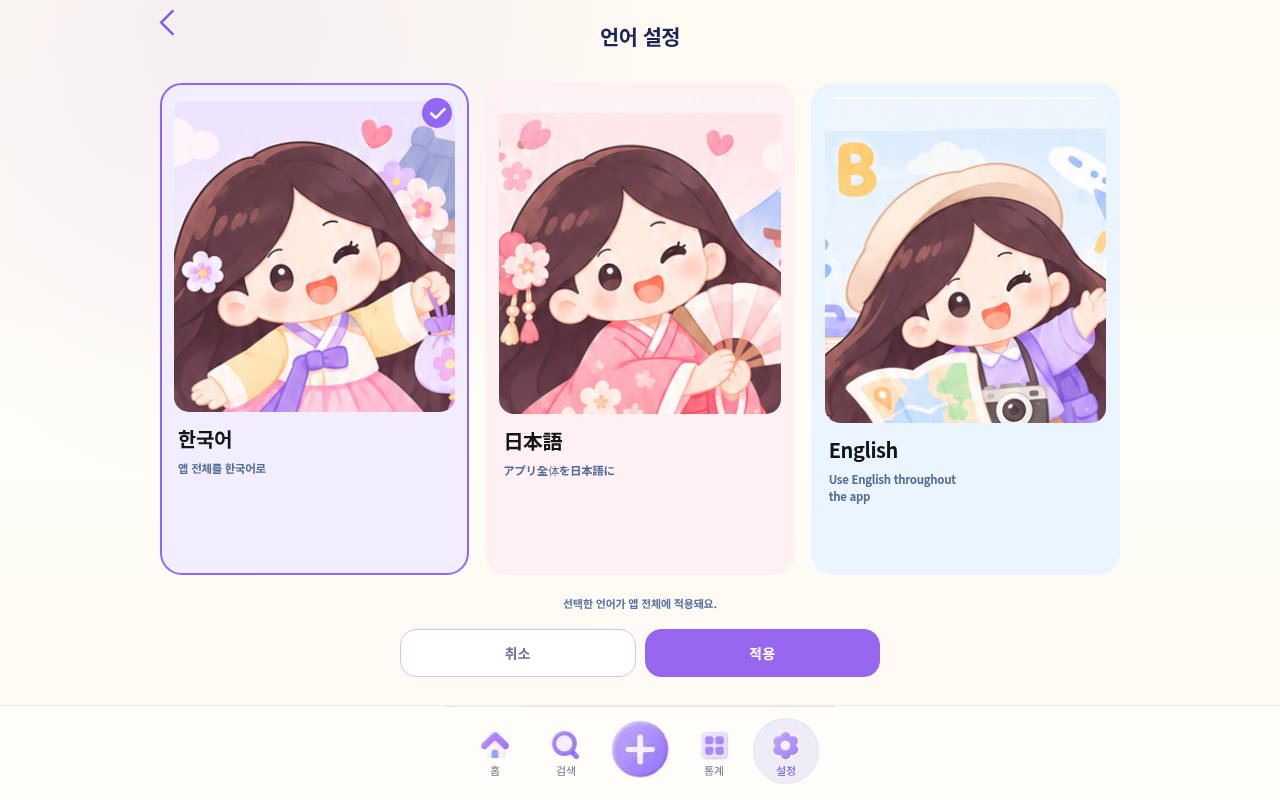
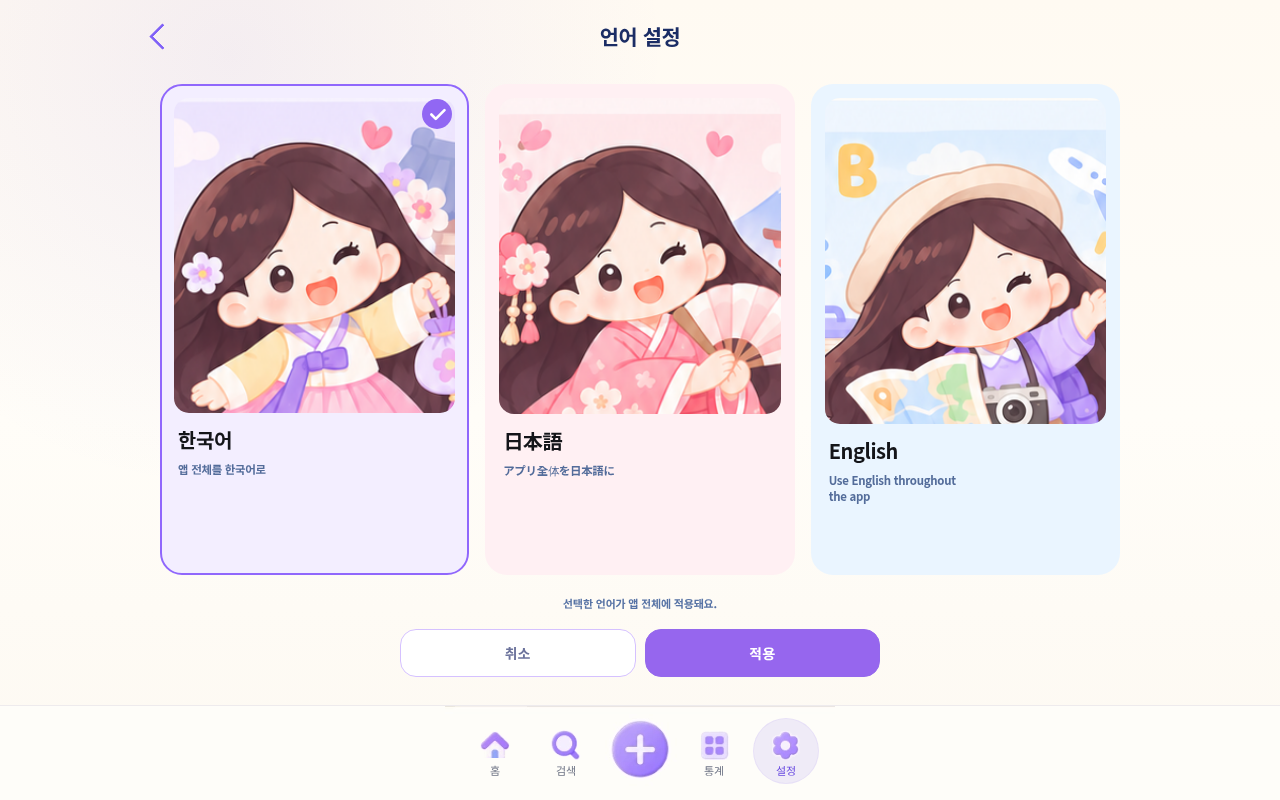
Wide settings: theme with a large preview, one shared header and back arrow across settings screens
Claude-Session: https://claude.ai/code/session_01GjqJbS89D4DFQDLTKoRXvw

diff --git a/drawary-v2/src/wide/wideSettings.css b/drawary-v2/src/wide/wideSettings.css
@@ -9,7 +9,6 @@
 .wide-sd .sec40-screen, .wide-sd .dmh44-screen, .wide-sd .ts39-screen, .wide-sd .lang54-screen, .wide-sd .help55-screen, .wide-sd .info58-screen, .wide-sd .fb59-screen {
   position: relative; width: 100%; max-width: 1000px; height: auto; min-height: 0; margin: 0 auto; overflow: visible; background: transparent;
 }
-.wide-sd .help55-screen, .wide-sd .info58-screen, .wide-sd .fb59-screen { max-width: 920px; }
 
 /* ---- security (#40) and data management (#44): hero across, the option rows as three cards ---- */
 .wide-sd .sec40-panel, .wide-sd .dmh44-panel {
@@ -75,7 +74,7 @@
 .wide-sd .sec40-screen, .wide-sd .dmh44-screen, .wide-sd .ts39-screen, .wide-sd .lang54-screen, .wide-sd .help55-screen, .wide-sd .info58-screen { display: flex; flex-direction: column; flex: 1 1 auto; }
 .wide-sd .sec40-panel, .wide-sd .dmh44-panel { flex: 1 1 auto; margin-bottom: 24px; }
 .wide-sd .ts39-panel { flex: 0 0 auto; margin-bottom: 24px; }
-.wide-sd .ts39-screen { justify-content: center; }
+.wide-sd .ts39-panel { margin-top: auto; margin-bottom: auto; }
 .wide-sd .sec40-panel { grid-template-rows: auto auto minmax(150px, 1fr) auto; }
 .wide-sd .dmh44-panel { grid-template-rows: auto auto minmax(150px, 1fr); }
 /* the option cards become tall tiles: icon above, text below, the switch or arrow underneath */
@@ -95,4 +94,148 @@
 .wide-sd .lang54-form { flex: 1 1 auto; grid-template-rows: minmax(0, 1fr) auto auto; align-content: stretch; max-height: 640px; }
 .wide-sd .lang54-card .lang54-art { flex: 1 1 auto; height: auto; min-height: 150px; }
 /* help and info: short pages are centred vertically */
-.wide-sd .help55-screen, .wide-sd .info58-screen { justify-content: center; }
+.wide-sd .help55-content { margin-top: auto; margin-bottom: auto; }
+.wide-sd .info58-brand { margin-top: auto; }
+.wide-sd .info58-credit { margin-bottom: auto; }
+
+/* ---- one header and one back arrow for every settings screen (same as the app's shared ScreenHeader: 72 px bar, centred 21 px title, 44 px chevron button) ---- */
+.wide-sd .sec40-header,
+.wide-sd .dmh44-header,
+.wide-sd .ts39-header,
+.wide-sd .ld41-header,
+.wide-sd .ps42-header,
+.wide-sd .bkt45-header,
+.wide-sd .rr50-header,
+.wide-sd .help55-appbar,
+.wide-sd .info58-appbar,
+.wide-sd .guide57-appbar,
+.wide-sd .faq56-appbar,
+.wide-sd .fb59-appbar,
+.pane-magnifier-inner .sec40-header,
+.pane-magnifier-inner .dmh44-header,
+.pane-magnifier-inner .ts39-header,
+.pane-magnifier-inner .ld41-header,
+.pane-magnifier-inner .ps42-header,
+.pane-magnifier-inner .bkt45-header,
+.pane-magnifier-inner .rr50-header,
+.pane-magnifier-inner .help55-appbar,
+.pane-magnifier-inner .info58-appbar,
+.pane-magnifier-inner .guide57-appbar,
+.pane-magnifier-inner .faq56-appbar,
+.pane-magnifier-inner .fb59-appbar { position: relative; height: 72px; margin: 0; padding: 0; display: grid; grid-template-columns: 44px 1fr 44px; align-items: center; justify-content: normal; flex: none; }
+.wide-sd .sec40-header h1,
+.wide-sd .dmh44-header h1,
+.wide-sd .ts39-title,
+.wide-sd .ld41-header h1,
+.wide-sd .ps42-header h1,
+.wide-sd .bkt45-header h1,
+.wide-sd .rr50-title,
+.wide-sd .help55-appbar-title,
+.wide-sd .info58-appbar-title,
+.wide-sd .guide57-appbar-title,
+.wide-sd .faq56-appbar h1,
+.wide-sd .fb59-appbar h1,
+.pane-magnifier-inner .sec40-header h1,
+.pane-magnifier-inner .dmh44-header h1,
+.pane-magnifier-inner .ts39-title,
+.pane-magnifier-inner .ld41-header h1,
+.pane-magnifier-inner .ps42-header h1,
+.pane-magnifier-inner .bkt45-header h1,
+.pane-magnifier-inner .rr50-title,
+.pane-magnifier-inner .help55-appbar-title,
+.pane-magnifier-inner .info58-appbar-title,
+.pane-magnifier-inner .guide57-appbar-title,
+.pane-magnifier-inner .faq56-appbar h1,
+.pane-magnifier-inner .fb59-appbar h1 { grid-column: 2; margin: 0; text-align: center; font-size: 21px; line-height: 1.25; font-weight: 850; letter-spacing: -.5px; color: #1b2d65; white-space: nowrap; overflow: hidden; text-overflow: ellipsis; }
+.wide-sd .sec40-back,
+.wide-sd .dmh44-back,
+.wide-sd .ts39-back,
+.wide-sd .ld41-back,
+.wide-sd .ps42-back,
+.wide-sd .bkt45-back,
+.wide-sd .rr50-back,
+.wide-sd .help55-back,
+.wide-sd .info58-back,
+.wide-sd .guide57-back,
+.wide-sd .faq56-back,
+.wide-sd .fb59-back,
+.pane-magnifier-inner .sec40-back,
+.pane-magnifier-inner .dmh44-back,
+.pane-magnifier-inner .ts39-back,
+.pane-magnifier-inner .ld41-back,
+.pane-magnifier-inner .ps42-back,
+.pane-magnifier-inner .bkt45-back,
+.pane-magnifier-inner .rr50-back,
+.pane-magnifier-inner .help55-back,
+.pane-magnifier-inner .info58-back,
+.pane-magnifier-inner .guide57-back,
+.pane-magnifier-inner .faq56-back,
+.pane-magnifier-inner .fb59-back { position: static; grid-column: 1; grid-row: 1; left: auto; top: auto; width: 44px; height: 44px; margin: 0; padding: 0; border: 0; background: transparent; transform: none; display: flex; align-items: center; justify-content: center; cursor: pointer; }
+.wide-sd .sec40-back::before,
+.wide-sd .dmh44-back::before,
+.wide-sd .ts39-back::before,
+.wide-sd .ld41-back::before,
+.wide-sd .ps42-back::before,
+.wide-sd .bkt45-back::before,
+.wide-sd .rr50-back::before,
+.wide-sd .help55-back::before,
+.wide-sd .info58-back::before,
+.wide-sd .guide57-back::before,
+.wide-sd .faq56-back::before,
+.wide-sd .fb59-back::before,
+.pane-magnifier-inner .sec40-back::before,
+.pane-magnifier-inner .dmh44-back::before,
+.pane-magnifier-inner .ts39-back::before,
+.pane-magnifier-inner .ld41-back::before,
+.pane-magnifier-inner .ps42-back::before,
+.pane-magnifier-inner .bkt45-back::before,
+.pane-magnifier-inner .rr50-back::before,
+.pane-magnifier-inner .help55-back::before,
+.pane-magnifier-inner .info58-back::before,
+.pane-magnifier-inner .guide57-back::before,
+.pane-magnifier-inner .faq56-back::before,
+.pane-magnifier-inner .fb59-back::before { content: ''; display: block; position: static; width: 11px; height: 11px; margin: 0; border: 0; border-left: 3px solid var(--tc-7a5cf0,#7a5cf0); border-bottom: 3px solid var(--tc-7a5cf0,#7a5cf0); border-radius: 1px; transform: rotate(45deg); }
+.wide-sd .sec40-back::after,
+.wide-sd .dmh44-back::after,
+.wide-sd .ts39-back::after,
+.wide-sd .ld41-back::after,
+.wide-sd .ps42-back::after,
+.wide-sd .bkt45-back::after,
+.wide-sd .rr50-back::after,
+.wide-sd .help55-back::after,
+.wide-sd .info58-back::after,
+.wide-sd .guide57-back::after,
+.wide-sd .faq56-back::after,
+.wide-sd .fb59-back::after,
+.pane-magnifier-inner .sec40-back::after,
+.pane-magnifier-inner .dmh44-back::after,
+.pane-magnifier-inner .ts39-back::after,
+.pane-magnifier-inner .ld41-back::after,
+.pane-magnifier-inner .ps42-back::after,
+.pane-magnifier-inner .bkt45-back::after,
+.pane-magnifier-inner .rr50-back::after,
+.pane-magnifier-inner .help55-back::after,
+.pane-magnifier-inner .info58-back::after,
+.pane-magnifier-inner .guide57-back::after,
+.pane-magnifier-inner .faq56-back::after,
+.pane-magnifier-inner .fb59-back::after { content: none; display: none; }
+
+/* the shared ScreenHeader screens (language, restore, reset, ...) take the same values, over their per-screen restore rules */
+.wide-sd .uf-header--center, .pane-magnifier-inner .uf-header--center { position: relative !important; top: auto !important; height: 72px !important; margin: 0 !important; padding: 0 !important; }
+.wide-sd .uf-header--center .uf-title, .pane-magnifier-inner .uf-header--center .uf-title { font-size: 21px !important; font-weight: 850 !important; letter-spacing: -.5px !important; color: #1b2d65 !important; line-height: 1.25 !important; }
+.wide-sd .uf-header--center .uf-back, .pane-magnifier-inner .uf-header--center .uf-back { position: static !important; left: auto !important; top: auto !important; width: 44px !important; height: 44px !important; margin: 0 !important; padding: 0 !important; transform: none !important; }
+.wide-sd .lang54-title { color: #1b2d65; font-weight: 850; }
+
+/* ---- theme (#39): one large preview of the chosen theme above the five choices ---- */
+.ts39-big { display: none; }
+.wide-sd .ts39-big { display: block; position: relative; width: 100%; max-width: 560px; height: 250px; margin: 4px auto 22px; border-radius: 26px; border: 1px solid var(--preview-border); background: var(--preview-background); box-shadow: 0 6px 20px rgba(65, 50, 90, .07); overflow: hidden; }
+.wide-sd .ts39-big[data-theme="lavender"] { --preview-background: #f5efff; --preview-border: #e6ddfb; --theme-primary: #8051ff; }
+.wide-sd .ts39-big[data-theme="coral"] { --preview-background: #fff1f1; --preview-border: #ffe2e1; --theme-primary: #f4898a; }
+.wide-sd .ts39-big[data-theme="sage"] { --preview-background: #f2faf1; --preview-border: #e6f1e5; --theme-primary: #80b58c; }
+.wide-sd .ts39-big[data-theme="mustard"] { --preview-background: #fff9ef; --preview-border: #f8edd7; --theme-primary: #e9b440; }
+.wide-sd .ts39-big[data-theme="sky"] { --preview-background: #eff7ff; --preview-border: #e0ecfa; --theme-primary: #79b8ea; }
+.wide-sd .ts39-big-flower { position: absolute; left: 28px; top: 20px; height: 104px; width: auto; max-width: 130px; object-fit: contain; }
+.wide-sd .ts39-big-bar { position: absolute; right: 34px; top: 52px; width: 120px; height: 28px; border-radius: 99px; background: var(--theme-primary); opacity: .69; }
+.wide-sd .ts39-big-field { position: absolute; left: 28px; right: 28px; bottom: 74px; height: 56px; border-radius: 18px; background: #fff; box-shadow: 0 2px 9px rgba(100, 100, 100, .05); }
+.wide-sd .ts39-big-field--short { bottom: 22px; right: 42%; height: 40px; }
+.wide-sd .ts39-big-name { position: absolute; right: 30px; bottom: 26px; font-size: 22px; font-weight: 900; letter-spacing: -.4px; color: var(--theme-primary); }

diff --git a/drawary-v2/src/screens/ThemeSettingsScreen.tsx b/drawary-v2/src/screens/ThemeSettingsScreen.tsx
@@ -9,6 +9,8 @@ export interface ThemeSettingsScreenProps {
   initialTheme?: ThemeId;
   onBack?: () => void;
   onThemeChange?: (theme: ThemeId) => void;
+  /** Wide windows: the chosen theme is also shown as one large preview above the five choices. */
+  bigPreview?: boolean;
 }
 
 const THEMES: { id: ThemeId; label: string; flower: string; alt: string }[] = [
@@ -31,7 +33,7 @@ const THEMES: { id: ThemeId; label: string; flower: string; alt: string }[] = [
  * the archive into a new `assets/theme/` directory (verified by
  * opening each one directly, not guessed from filenames).
  */
-export function ThemeSettingsScreen({ initialTheme = 'lavender', onBack, onThemeChange }: ThemeSettingsScreenProps) {
+export function ThemeSettingsScreen({ initialTheme = 'lavender', onBack, onThemeChange, bigPreview = false }: ThemeSettingsScreenProps) {
   const [theme, setTheme] = useState<ThemeId>(initialTheme);
 
   const select = (id: ThemeId) => {
@@ -47,6 +49,15 @@ export function ThemeSettingsScreen({ initialTheme = 'lavender', onBack, onTheme
       </header>
       <section className="ts39-panel" aria-label={t('테마 설정')}>
         <h2 className="ts39-section-heading">{t('테마 스타일')}</h2>
+        {bigPreview && (
+          <div className="ts39-big" data-theme={theme} aria-hidden="true">
+            <img className="ts39-big-flower" src={`/assets/theme/${THEMES.find((x) => x.id === theme)!.flower}`} alt="" />
+            <span className="ts39-big-bar" />
+            <span className="ts39-big-field" />
+            <span className="ts39-big-field ts39-big-field--short" />
+            <span className="ts39-big-name">{t(THEMES.find((x) => x.id === theme)!.label)}</span>
+          </div>
+        )}
         <div className="ts39-themes" aria-label={t('테마 선택')}>
           {THEMES.map((th) => (
             <button

diff --git a/drawary-v2/src/App.tsx b/drawary-v2/src/App.tsx
@@ -1170,7 +1170,7 @@ export default function App() {
       // ThemeSettingsScreen.tsx's own header comment. Back returns to #38.
       return <main className="drawary-app-shell" data-route="theme-settings">
         <FixedCanvas height={844}>
-          <ThemeSettingsScreen initialTheme={theme} onBack={returnToTab} onThemeChange={(id) => { void actions.setSetting(THEME_KEY, id).catch(alertError); }} />
+          <ThemeSettingsScreen bigPreview={layout === 'wide'} initialTheme={theme} onBack={returnToTab} onThemeChange={(id) => { void actions.setSetting(THEME_KEY, id).catch(alertError); }} />
         </FixedCanvas>
       </main>;
     }

diff --git a/drawary-v2/docs/V2_12_18_PHONE_FEEDBACK_FIXES.md b/drawary-v2/docs/V2_12_18_PHONE_FEEDBACK_FIXES.md
@@ -76,3 +76,8 @@ The first audit of all screens in landscape found only those three had their own
 - Settings (`wide` and `land`): the seven approved rows (same icons, titles, texts) as a grid of cards that fills the window (3 columns on a tablet, 2 on a landscape phone); nothing is open at first. In `wide`, a card opens that settings screen magnified (up to 1.35x, one piece, `PaneMagnifier`) and centered, The seven first-level screens (theme, security, data management, language, help, info, feedback) are re-arranged for the wide page with CSS only (`wide/wideSettings.css`, scoped under `.wide-sd`): hero across, option rows / cards in columns (3 cards for security, data and language, 5 theme styles in a row, 2 columns for help and info, 4 feedback kinds in a row). Their texts, icons, colours and behaviour are unchanged. The screens they lead to (lock > PIN, backup / restore / reset, FAQ / guide, ...) open magnified in one centered column. The screens keep their own back arrow, which now simply leads back (finally to the grid). On a landscape phone the opened screens stay phone screens.
 - Also fixed: the two-pane fallback overflowed sideways on 837 dp-wide windows (panes now shrink).
 Preview images: `docs/preview/wide/*_s*_*.png`. Not verified: real devices. Every other screen (forms and flows) still shows as the phone screen: beside the home list in `wide`, as a centered column in `land`.
+
+Later changes to the wide settings pages (owner requests in chat):
+- Cards of security / data management / language fill the page height (tiles); short pages (help, info, theme) are centred.
+- Theme: one large preview of the chosen theme (the approved card preview's pieces enlarged: flower, accent bar, fields, name) above the five approved cards.
+- One header and one back arrow for every settings screen in wide windows (the shared ScreenHeader look: 72 px bar, centred 21 px title #1b2d65, 44 px chevron button), applied by CSS over the twelve screens that had their own header markup, and over the restore-style ScreenHeader screens (`wide/wideSettings.css`). Phone screens are unchanged.
